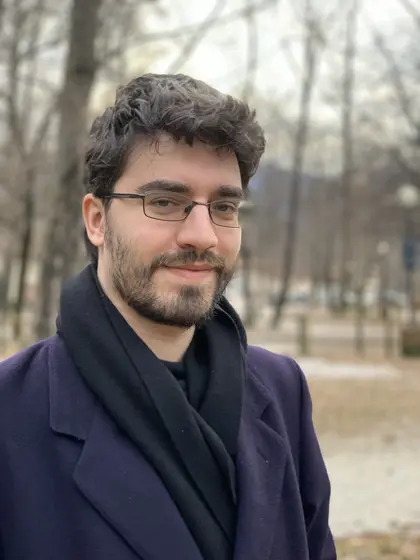
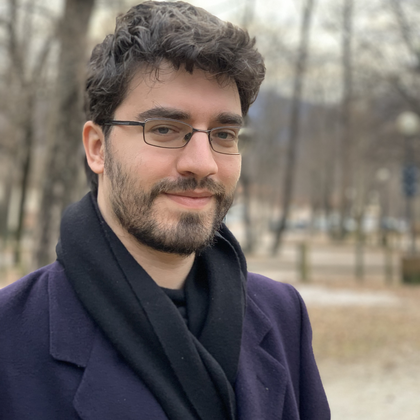
let zola resize the image

diff --git a/templates/index.html b/templates/index.html
@@ -5,8 +5,9 @@
     <div class="row">
       <div class="col col-lg-4">
         <div id="profile">
+          {% set image = resize_image(path=config.extra.avatar, format="webp", width=220, height=220) %}
            <picture>
-             <img class="avatar" src="{{ config.extra.avatar }}" alt="Profile image">
+             <img class="avatar" src="{{ image.url }}" alt="Half-body image of Andrea Titolo">
            </picture>
           <div>
             <h2>{{ config.author }}</h2>

diff --git a/static/css/style.css b/static/css/style.css
@@ -718,8 +718,6 @@ abbr[title] {
 }
 
 .avatar {
-  width: 220px;
-  height: 220px;
   margin: 0 auto;
   object-fit: cover;
   max-width: 100%;
